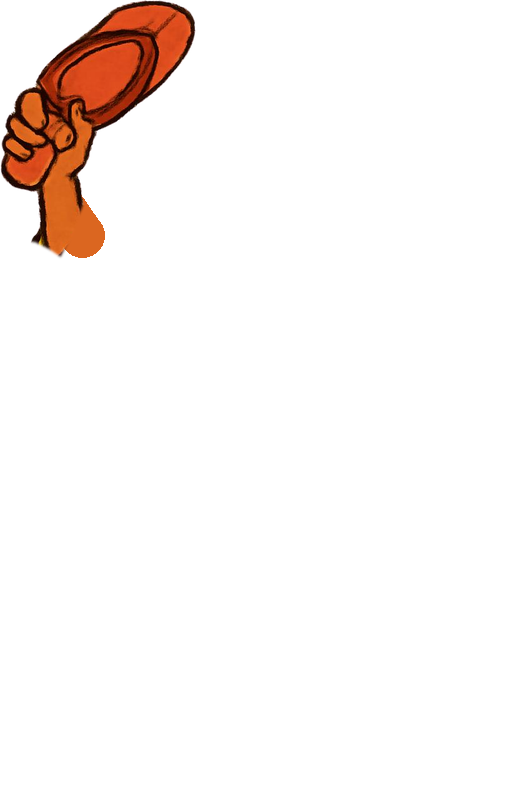
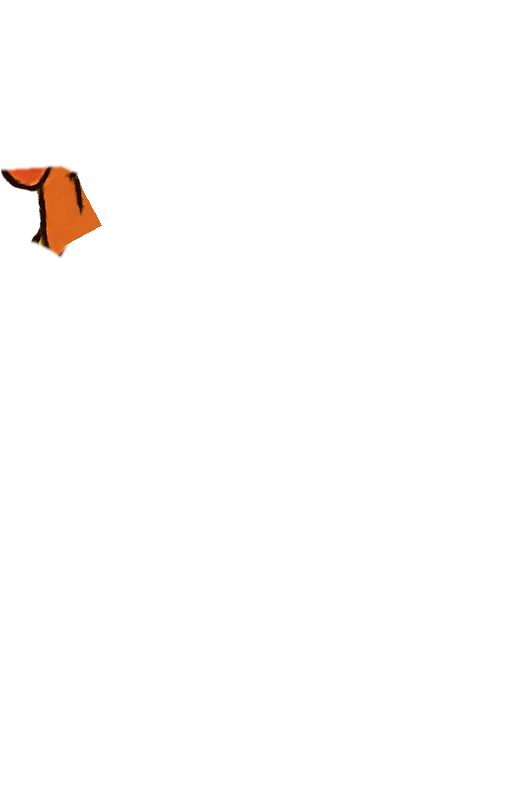
feat(da-siu-yan): cut the hand+slipper from the forearm at the wrist
Splits the painted forearm+fist+slipper sprite at the measured wrist
joint so the hand becomes its own pivoting piece (granny-hand.png).
The strike pose rotates that segment ~180deg; keeping it fused to the
forearm would render the slipper sole-up.

Tuned two boundaries beyond the starting-point polygons: extended
POLY_FORE past POLY_UPPER's edge (a pre-existing hairline gap, newly
exposed by the wrist bone fill sitting on top of it) and widened
POLY_HAND to actually enclose the wrist-cap disc's footprint (it was
unmasked and, since HAND composites over FORE, was overwriting FORE's
correct real content with flat fill at rest). Both are safe overlaps
since fore/hand/upper all sample the same source photo.

Claude-Session: https://claude.ai/code/session_01HSjgTXohExaUtNGTmRJnUM

Changed region(s): [[0.0, 0.0, 0.3962, 0.2403], [0.1219, 0.2403, 0.2133, 0.3304]]

diff --git a/scripts/da-siu-yan/cut-granny-sprites.py b/scripts/da-siu-yan/cut-granny-sprites.py
@@ -17,14 +17,32 @@ W, H = 525, 799
 # joints (image coords)
 SHOULDER = (190, 345)
 ELBOW = (82, 235)
+WRIST = (61, 196)       # measured: narrowest section before the fist widens
 SLIPPER = (100, 72)     # centre of the slipper face
 
-# forearm + hand + slipper: skin cut along the cuff-opening V; everywhere
-# else the boundary runs through transparency, so it can be generous
-POLY_FORE = [
+# hand + slipper: everything beyond the wrist. The cut runs perpendicular to
+# the forearm across the wrist; elsewhere the boundary sits in transparency,
+# so it can be generous. The (84,200)..(61,169) run loops around WRIST at a
+# ~27px margin (bigger than the wrist-cap disc drawn in main()) rather than
+# touching it — the disc is unmasked, so if HAND's own polygon doesn't reach
+# past its footprint, hand.png shows the flat cap color instead of real
+# pixels there and it overwrites fore's real content when composited on top.
+POLY_HAND = [
     (0, 0), (205, 0), (205, 95), (150, 140), (128, 185), (100, 188),
-    (84, 200), (78, 214), (74, 228), (60, 256), (48, 248), (36, 242),
-    (6, 236), (0, 238),
+    (84, 200), (82, 213), (61, 223), (40, 213), (34, 196), (44, 175),
+    (61, 169), (30, 170), (0, 178),
+]
+
+# forearm stub: elbow up to the wrist cut. Short — most of what the old
+# single sprite called "forearm" was actually fist + slipper. The right edge
+# (92,180)-(81,210) is pushed a few px past where POLY_UPPER's own boundary
+# sits (measured: a hairline gap otherwise runs along that edge, invisible
+# in the old single-piece art but exposed here by the wrist bone/cap fill
+# sitting right on top of it — the overlap is free since both pieces sample
+# the same source photo).
+POLY_FORE = [
+    (0, 170), (30, 168), (60, 166), (92, 180), (81, 210), (74, 228),
+    (60, 256), (48, 248), (36, 242), (6, 236), (0, 238),
 ]
 
 # the sleeve (upper arm): boundary follows the cuff-opening V and the elbow
@@ -69,17 +87,19 @@ def main(debug_only=False):
         dbg = img.copy()
         d = ImageDraw.Draw(dbg)
         d.polygon(POLY_FORE, outline=(255, 0, 0, 255), width=2)
+        d.polygon(POLY_HAND, outline=(255, 200, 0, 255), width=2)
         d.polygon(POLY_UPPER, outline=(0, 0, 255, 255), width=2)
         d.polygon(POLY_HEAD, outline=(0, 180, 0, 255), width=2)
         d.polygon(POLY_PATCH, outline=(255, 0, 255, 255), width=2)
         for p, c in [(SHOULDER, (255, 0, 255, 255)), (ELBOW, (0, 200, 0, 255)),
-                     (SLIPPER, (255, 140, 0, 255))]:
+                     (WRIST, (0, 220, 220, 255)), (SLIPPER, (255, 140, 0, 255))]:
             d.ellipse([p[0]-6, p[1]-6, p[0]+6, p[1]+6], outline=c, width=3)
         dbg.save('debug-polys.png')
         print('wrote debug-polys.png')
         return
 
     m_fore = mask_from_poly(POLY_FORE)
+    m_hand = mask_from_poly(POLY_HAND)
     m_upper = mask_from_poly(POLY_UPPER)
     m_head = mask_from_poly(POLY_HEAD)
 
@@ -107,10 +127,19 @@ def main(debug_only=False):
     fore = extract(m_fore)
     bone = Image.new('RGBA', (W, H), (0, 0, 0, 0))
     bd = ImageDraw.Draw(bone)
-    bd.line([(58, 200), ELBOW], fill=skin + (255,), width=44)
-    bd.ellipse([ELBOW[0]-22, ELBOW[1]-22, ELBOW[0]+22, ELBOW[1]+22], fill=skin + (255,))
+    bd.line([WRIST, ELBOW], fill=skin + (255,), width=44)
+    bd.ellipse([WRIST[0]-22, WRIST[1]-22, WRIST[0]+22, WRIST[1]+22], fill=skin + (255,))
     fore = Image.alpha_composite(bone, fore)
     slim(fore).save('granny-arm-fore.png')
+
+    # ── hand sprite: fist + slipper, pivoting at the wrist ──
+    hand = extract(m_hand)
+    wcap = Image.new('RGBA', (W, H), (0, 0, 0, 0))
+    wd = ImageDraw.Draw(wcap)
+    wd.ellipse([WRIST[0]-20, WRIST[1]-20, WRIST[0]+20, WRIST[1]+20], fill=skin + (255,))
+    wcap = wcap.filter(ImageFilter.GaussianBlur(0.5))
+    hand = Image.alpha_composite(wcap, hand)
+    slim(hand).save('granny-hand.png')
 
     # ── upper arm sprite: yellow half-disc cap under the sleeve pixels ──
     # only the elbow-facing half: the body-side half is the patch's job, and a
@@ -141,7 +170,8 @@ def main(debug_only=False):
 
     # ── body sprite: original minus both arm pieces, shoulder patched ──
     # dilate the union so no sliver of arm survives between the two cut lines
-    union = ImageChops.lighter(m_fore, m_upper).filter(ImageFilter.MaxFilter(9))
+    union = ImageChops.lighter(ImageChops.lighter(m_fore, m_upper),
+                               m_hand).filter(ImageFilter.MaxFilter(9))
     body = img.copy()
     body.putalpha(ImageChops.multiply(alpha, ImageChops.invert(union)))
     patch = Image.new('RGBA', (W, H), (0, 0, 0, 0))
@@ -156,8 +186,8 @@ def main(debug_only=False):
     body.save('granny-body.png')
 
     # ── reconstruction check: authored pose should look like the original ──
-    recon = Image.alpha_composite(
-        Image.alpha_composite(Image.alpha_composite(body, fore), upper), head)
+    recon = Image.alpha_composite(Image.alpha_composite(Image.alpha_composite(
+        Image.alpha_composite(body, fore), hand), upper), head)
     recon.save('debug-recon.png')
 
     # rotated-pose seam checks (shoulder deg, elbow deg — canvas sign, so
@@ -168,8 +198,14 @@ def main(debug_only=False):
         canvas.alpha_composite(body)
         f = fore.rotate(-el_deg, center=ELBOW, resample=Image.BICUBIC)
         f = f.rotate(-sh_deg, center=SHOULDER, resample=Image.BICUBIC)
+        # hand has no independent wrist bend yet (that's task 3's IK job) —
+        # carry it through the same elbow+shoulder transform as the forearm
+        # so it stays glued at the wrist for this seam check
+        h = hand.rotate(-el_deg, center=ELBOW, resample=Image.BICUBIC)
+        h = h.rotate(-sh_deg, center=SHOULDER, resample=Image.BICUBIC)
         u = upper.rotate(-sh_deg, center=SHOULDER, resample=Image.BICUBIC)
         canvas.alpha_composite(f)
+        canvas.alpha_composite(h)
         canvas.alpha_composite(u)
         canvas.alpha_composite(head)
         canvas.save(f'debug-pose-{name}.png')
